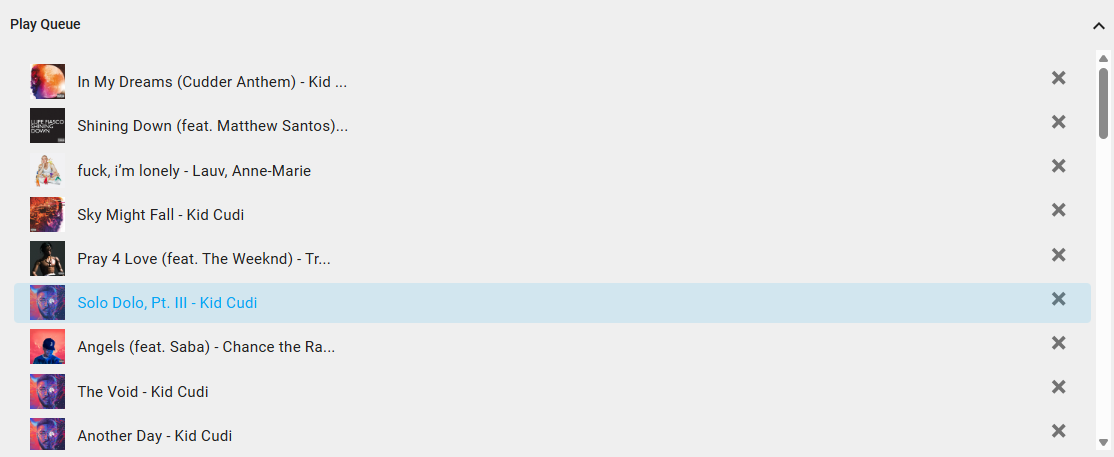
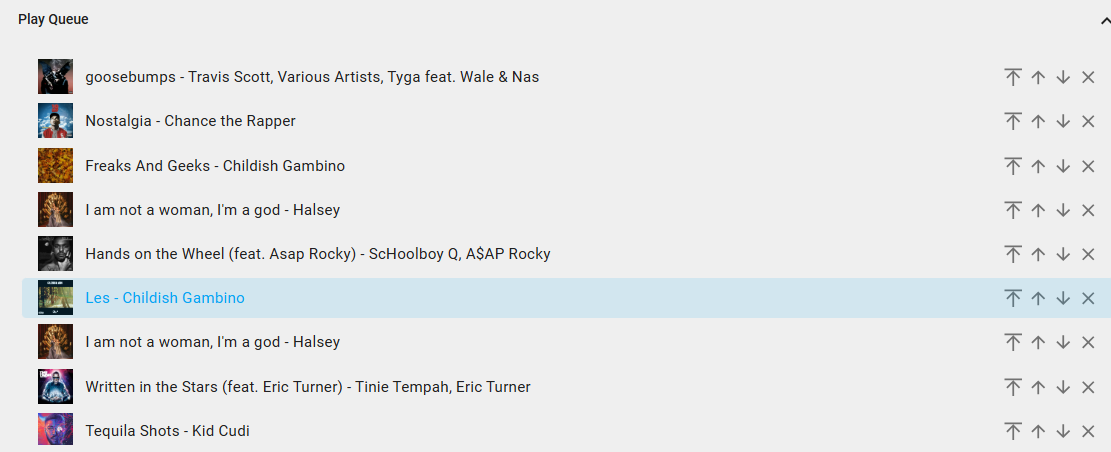
Add move queue items actions (#5)
* Add initial support for more queue item actions

* Add move next action

* Add move item up action

* Add move down action

* Improve error message for remove queue item

* Adjust margin

* Don't set media content ID except when selected

* Remove scrollbar

diff --git a/src/media-row.ts b/src/media-row.ts
@@ -1,34 +1,65 @@
 import { css, html, LitElement } from 'lit';
 import { property } from 'lit/decorators.js'
-import { mdiCloseThick } from '@mdi/js';
+import { 
+  mdiClose,
+  mdiArrowCollapseUp,
+  mdiArrowUp,
+  mdiArrowDown
+} from '@mdi/js';
 import { QueueItem } from './types';
 
 class MediaRow extends LitElement {
   @property({ attribute: false }) item!: QueueItem;
   @property({ type: Boolean }) selected = false;
   @property({ attribute: false}) removeService;
+  @property({ attribute: false}) moveQueueItemNextService;
+  @property({ attribute: false}) moveQueueItemUpService;
+  @property({ attribute: false}) moveQueueItemDownService;
   render() {
     let title = `${this.item.media_title} - ${this.item.media_artist}`;
-    let title_trimmed = title.substring(0,35)
-    if (title !== title_trimmed) {
-      title_trimmed = `${title_trimmed}...`;
-    }
     return html`
       <mwc-list-item hasMeta ?selected=${this.selected} ?activated=${this.selected} class="button">
         <div class="row">
           <div class="thumbnail" ?hidden=${!this.item.media_image} style="background-image: url(${this.item.media_image})"></div>
-          <div class="title">${title_trimmed}</div>
+          <div class="title">${title}</div>
         </div>
-        <div slot="meta">
-        <ha-icon-button 
-          .path=${mdiCloseThick}
-          class="remove-button"
-          @click=${(e) =>{
-              e.stopPropagation();
-              this.removeService(this.item.queue_item_id, this.item.media_content_id)
-            }
-          }>
-        </ha-icon-button>
+        <div slot="meta" class="button-group">
+          <ha-icon-button 
+            .path=${mdiArrowCollapseUp}
+            class="action-button"
+            @click=${(e) =>{
+                e.stopPropagation();
+                this.moveQueueItemNextService(this.item.queue_item_id)
+              }
+            }>
+          </ha-icon-button>        
+          <ha-icon-button 
+            .path=${mdiArrowUp}
+            class="action-button"
+            @click=${(e) =>{
+                e.stopPropagation();
+                this.moveQueueItemUpService(this.item.queue_item_id)
+              }
+            }>
+          </ha-icon-button>
+          <ha-icon-button 
+            .path=${mdiArrowDown}
+            class="action-button"
+            @click=${(e) =>{
+                e.stopPropagation();
+                this.moveQueueItemDownService(this.item.queue_item_id)
+              }
+            }>
+          </ha-icon-button>
+          <ha-icon-button 
+            .path=${mdiClose}
+            class="action-button"
+            @click=${(e) =>{
+                e.stopPropagation();
+                this.removeService(this.item.queue_item_id)
+              }
+            }>
+          </ha-icon-button>
         <slot></slot>
         </div>
       </mwc-list-item>
@@ -50,6 +81,7 @@ class MediaRow extends LitElement {
 
         .row {
           display: flex;
+          margin-right: calc(var(--icon-width) * 2 + 8px);
         }
 
         .thumbnail {
@@ -60,17 +92,27 @@ class MediaRow extends LitElement {
           background-position: left;
           padding-left: 12px;
         }
-        .remove-button {
+        .button-group {
+          display: flex;
+          flex-direction: row;
+          align-items: center;
+          justify-content: flex-end;
+          gap: 4px;
+        }
+        .action-button {
           width: var(--icon-width);
-          height: var(--icon-width);
           transform: scale(1.5);
-          align-self: end;
+          align-content: center;
         }
 
         .title {
           font-size: 1.1rem;
           align-self: center;
           flex: 1;
+          overflow: hidden;
+          text-overflow: ellipsis;
+          white-space: nowrap;
+          min-width: 0;
         }
       `
     ]

diff --git a/src/index.ts b/src/index.ts
@@ -186,9 +186,17 @@ export class MusicAssistantCard extends LitElement {
     this.NEW_ID = content_id
     await this.services.playQueueItem(queue_item_id);    
   }
-  private onQueueItemRemoved = async (queue_item_id: string, content_id: string) => {
-    this.NEW_ID = content_id
+  private onQueueItemRemoved = async (queue_item_id: string) => {
     await this.services.removeQueueItem(queue_item_id);    
+  }
+  private onQueueItemMoveNext = async (queue_item_id: string) => {
+    await this.services.MoveQueueItemNext(queue_item_id);    
+  }
+  private onQueueItemMoveUp = async (queue_item_id: string) => {
+    await this.services.MoveQueueItemUp(queue_item_id);    
+  }
+  private onQueueItemMoveDown = async (queue_item_id: string) => {
+    await this.services.MoveQueueItemDown(queue_item_id);    
   }
   private renderQueue() {
     const ttl = this.config.title || "Play Queue";
@@ -208,6 +216,9 @@ export class MusicAssistantCard extends LitElement {
                       .item=${item}
                       .selected=${item.playing}
                       .removeService=${this.onQueueItemRemoved}
+                      .moveQueueItemNextService=${this.onQueueItemMoveNext}
+                      .moveQueueItemUpService=${this.onQueueItemMoveUp}
+                      .moveQueueItemDownService=${this.onQueueItemMoveDown}
                     >
                     </mass-media-row>
                   `

diff --git a/src/services.ts b/src/services.ts
@@ -56,7 +56,46 @@ export default class HassService {
         }
       )
     } catch (e) {
-      console.error('Error selecting queue item', e)
+      console.error('Error removing queue item', e)
+    }
+  }
+  async MoveQueueItemNext(queue_item_id: string) {
+    try {
+      await this.hass.callService(
+        'mass_queue', 'move_queue_item_next',
+        {
+          entity: this.config.entity,
+          queue_item_id: queue_item_id
+        }
+      )
+    } catch (e) {
+      console.error('Error moving queue item next', e)
+    }
+  }
+  async MoveQueueItemUp(queue_item_id: string) {
+    try {
+      await this.hass.callService(
+        'mass_queue', 'move_queue_item_up',
+        {
+          entity: this.config.entity,
+          queue_item_id: queue_item_id
+        }
+      )
+    } catch (e) {
+      console.error('Error moving queue item up', e)
+    }
+  }
+  async MoveQueueItemDown(queue_item_id: string) {
+    try {
+      await this.hass.callService(
+        'mass_queue', 'move_queue_item_down',
+        {
+          entity: this.config.entity,
+          queue_item_id: queue_item_id
+        }
+      )
+    } catch (e) {
+      console.error('Error moving queue item down', e)
     }
   }
 }

diff --git a/src/styles.ts b/src/styles.ts
@@ -45,6 +45,8 @@ export default css`
     overflow-y: scroll;
     --mdc-icon-button-size: 1.5rem;
     --mdc-icon-size: 1rem;
+    -ms-overflow-style: none;
+    scrollbar-width: none;
   }
   *[selected] {
     color: var(--acent-color)

diff --git a/README.md b/README.md
@@ -8,9 +8,13 @@
 
 Display the queue for any given media player.
 
-![Queue Card Example](/static/queue_example.png)
-
 [![My Home Assistant](https://my.home-assistant.io/badges/hacs_repository.svg)](https://my.home-assistant.io/redirect/hacs_repository/?repository=mass_card&owner=droans&category=Plugin)
+
+### Desktop:
+<img src="/static/queue_example.png" alt="Queue Card Example" height=300>
+
+### Mobile:
+<img src="/static/queue_example_mobile.png" alt="Queue Card Mobile Example" height=300>
 
 ## Installation
 
